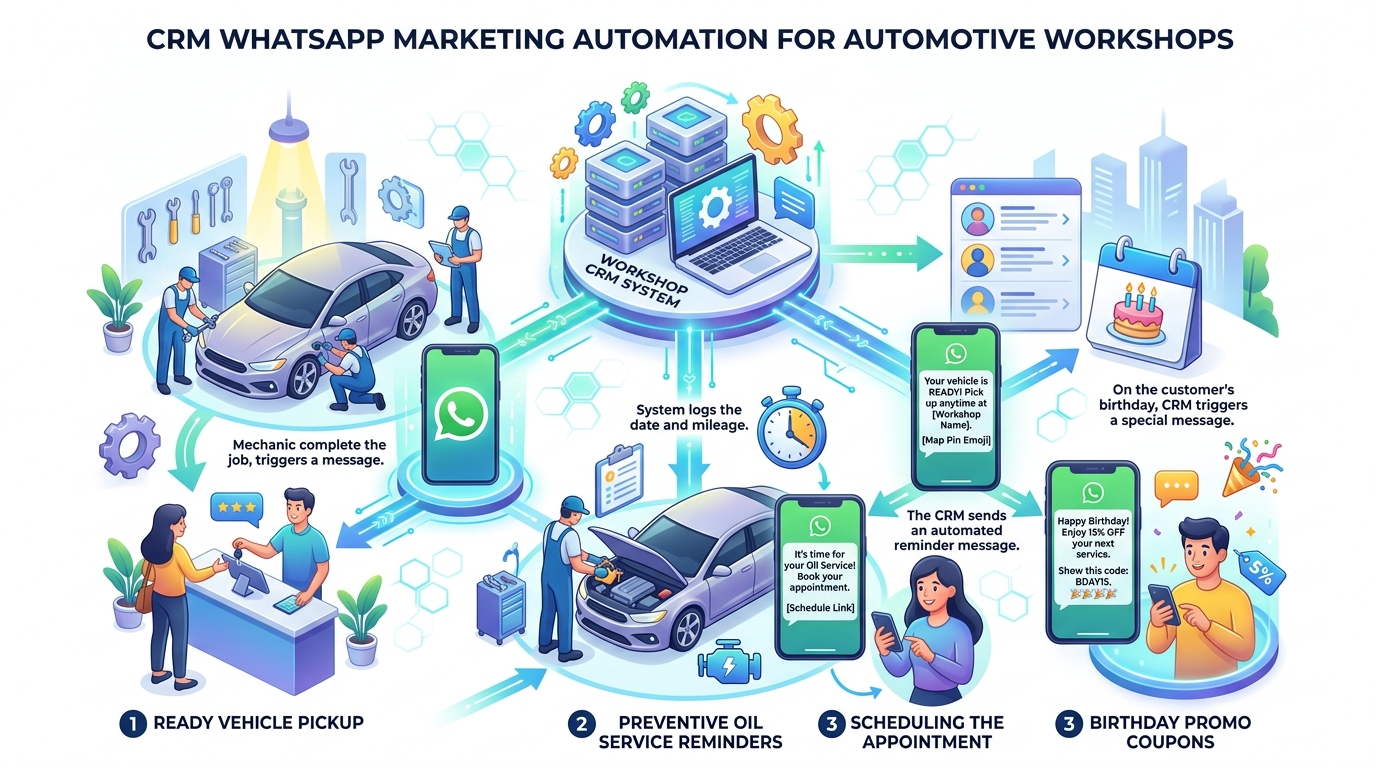
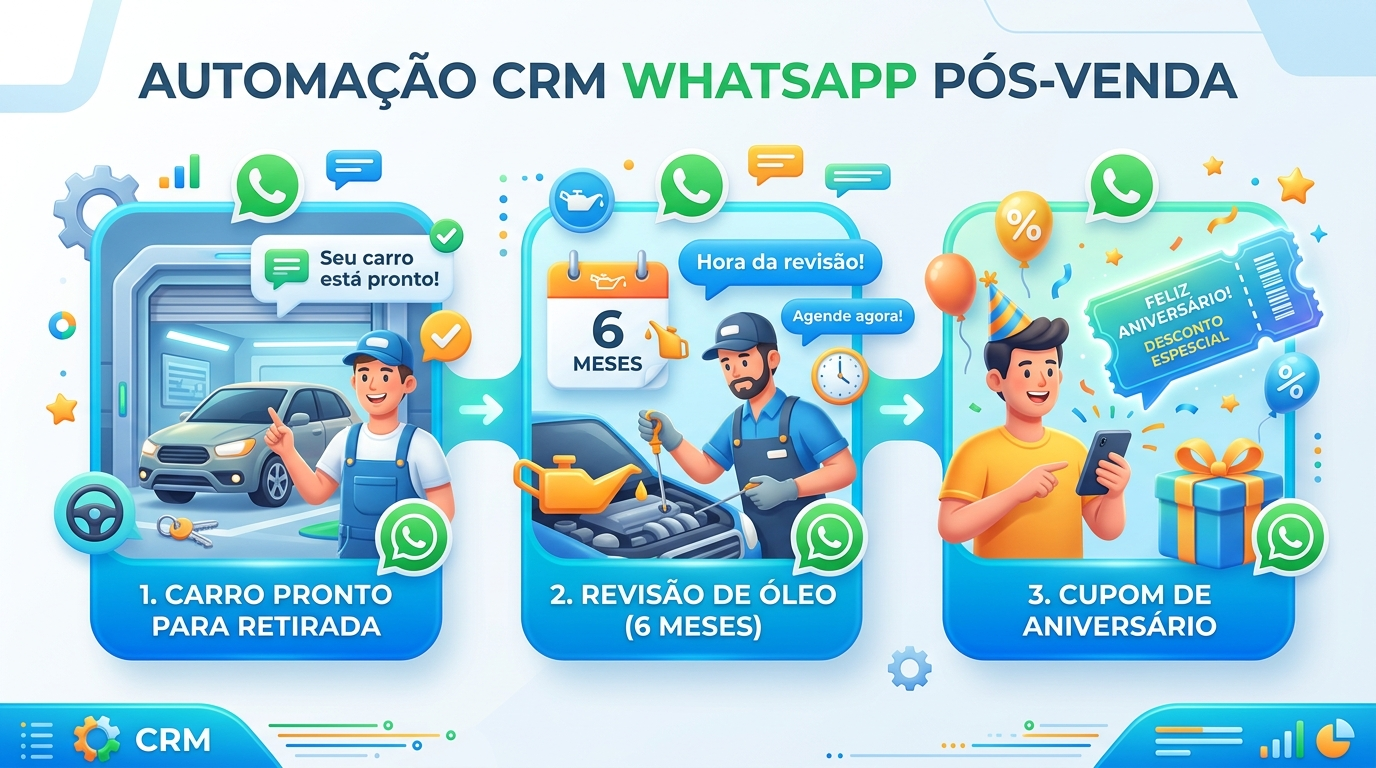
fix: reconfigurar banco SQLite e sessoes no AppData do usuario para evitar erro 500 em Program Files e atualizar infograficos com textos 100% em portugues

diff --git a/electron/main.js b/electron/main.js
@@ -1,12 +1,12 @@
 const { app, BrowserWindow, shell } = require("electron");
 const path = require("path");
+const fs = require("fs");
 const http = require("http");
 
 let mainWindow = null;
 let serverInstance = null;
 
 const PORT = 3000;
-const isDev = process.env.NODE_ENV === "development" || !app.isPackaged;
 
 function getAppRoot() {
   if (app.isPackaged) {
@@ -15,16 +15,49 @@ function getAppRoot() {
   return path.join(__dirname, "..");
 }
 
+function setupEnvironment() {
+  const userDataPath = app.getPath("userData");
+  if (!fs.existsSync(userDataPath)) {
+    fs.mkdirSync(userDataPath, { recursive: true });
+  }
+
+  const dbPath = path.join(userDataPath, "autogestao.db");
+
+  // Se o banco ainda não existe na pasta AppData do usuário, copia o template dev.db inicial
+  if (!fs.existsSync(dbPath)) {
+    const appRoot = getAppRoot();
+    const templateDb = path.join(appRoot, "dev.db");
+    const unpackedDb = path.join(process.resourcesPath || "", "app.asar.unpacked", "dev.db");
+
+    if (fs.existsSync(unpackedDb)) {
+      fs.copyFileSync(unpackedDb, dbPath);
+    } else if (fs.existsSync(templateDb)) {
+      fs.copyFileSync(templateDb, dbPath);
+    }
+  }
+
+  // Define caminhos com permissão total de escrita (AppData)
+  process.env.DATABASE_URL = `file:${dbPath.replace(/\\/g, "/")}`;
+  process.env.USER_DATA_PATH = userDataPath;
+  process.env.LICENSE_FILE_PATH = path.join(userDataPath, ".license");
+  process.env.WHATSAPP_AUTH_DIR = path.join(userDataPath, "whatsapp_auth");
+
+  console.log("✓ Ambiente Desktop configurado com sucesso:");
+  console.log("  - AppData Directory:", userDataPath);
+  console.log("  - Database URL:", process.env.DATABASE_URL);
+}
+
 async function startEmbeddedServer() {
+  setupEnvironment();
   const appRoot = getAppRoot();
 
   // Inicia o daemon do WhatsApp em segundo plano
   try {
     const waPath = path.join(appRoot, "server-whatsapp.js");
     require(waPath);
-    console.log("✓ WhatsApp daemon carregado com sucesso.");
+    console.log("✓ WhatsApp daemon ativo na porta 3005.");
   } catch (err) {
-    console.error("Aviso ao carregar WhatsApp daemon:", err);
+    console.error("Aviso ao iniciar WhatsApp daemon:", err.message || err);
   }
 
   // Inicia o servidor Next.js embutido
@@ -46,9 +79,10 @@ async function startEmbeddedServer() {
       handle(req, res);
     });
 
-    await new Promise((resolve) => {
-      serverInstance.listen(PORT, "127.0.0.1", () => {
-        console.log(`✓ Servidor AutoGestão ativo na porta ${PORT}`);
+    await new Promise((resolve, reject) => {
+      serverInstance.listen(PORT, "127.0.0.1", (err) => {
+        if (err) return reject(err);
+        console.log(`✓ Servidor AutoGestão Next.js ativo em http://127.0.0.1:${PORT}`);
         resolve();
       });
     });
@@ -90,7 +124,7 @@ async function createWindow() {
   try {
     await mainWindow.loadURL(appUrl);
   } catch (err) {
-    console.error("Erro ao carregar URL da janela:", err);
+    console.error("Erro ao carregar URL principal da janela:", err);
   }
 
   mainWindow.on("closed", () => {

diff --git a/src/lib/licensing.ts b/src/lib/licensing.ts
@@ -27,7 +27,8 @@ export interface LicenseStatus {
   reason?: string;
 }
 
-const LICENSE_FILE_PATH = path.join(process.cwd(), ".license");
+const LICENSE_FILE_PATH =
+  process.env.LICENSE_FILE_PATH || path.join(process.cwd(), ".license");
 
 /**
  * Gera o hash de validação interna da chave a partir do HWID e Segredo do Projeto.

diff --git a/server-whatsapp.js b/server-whatsapp.js
@@ -12,7 +12,7 @@ const {
 const pino = require('pino');
 
 const PORT = 3005;
-const AUTH_DIR = path.join(__dirname, 'whatsapp_auth');
+const AUTH_DIR = process.env.WHATSAPP_AUTH_DIR || path.join(__dirname, 'whatsapp_auth');
 
 let sock = null;
 let isReconnecting = false;
